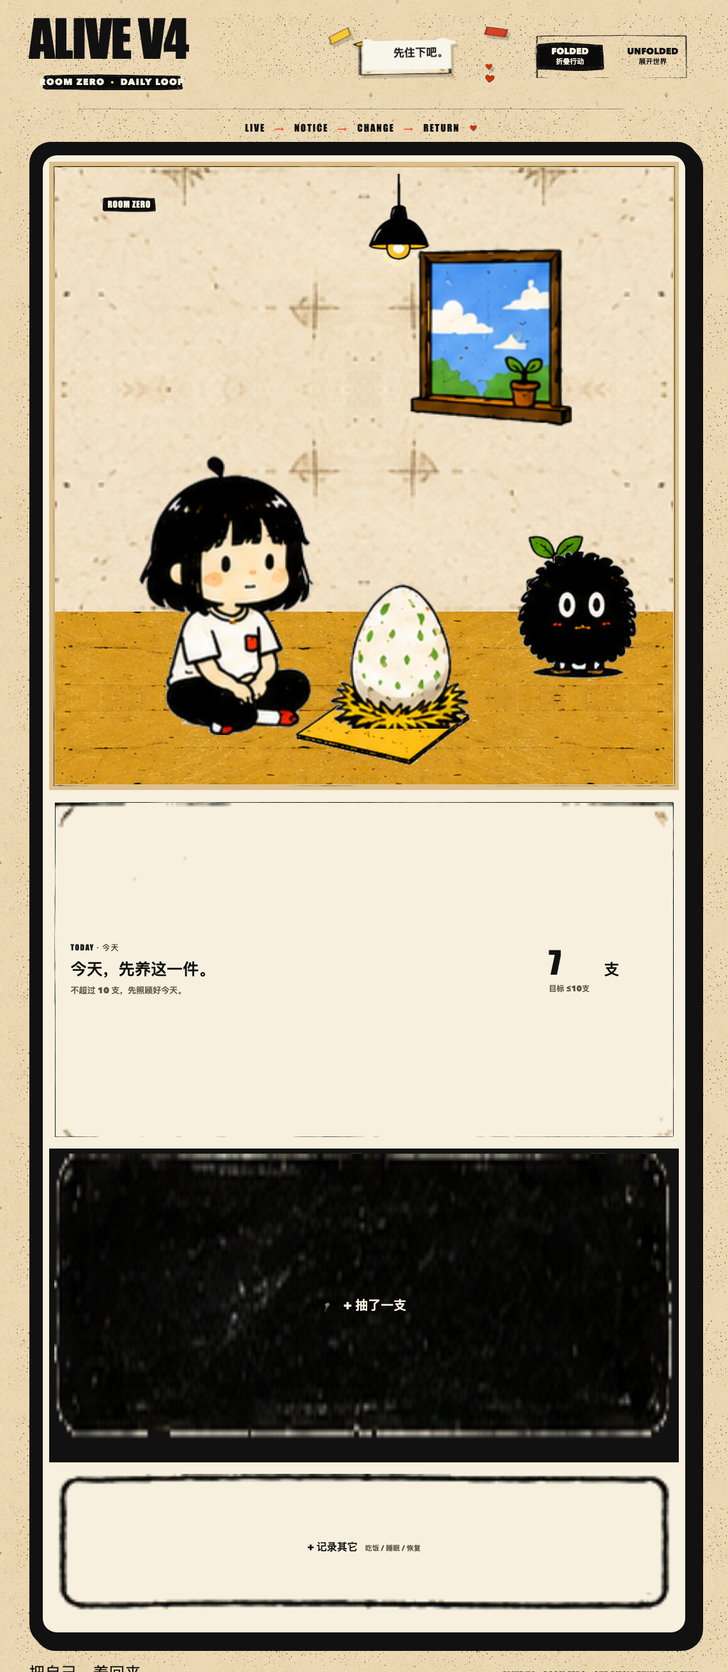
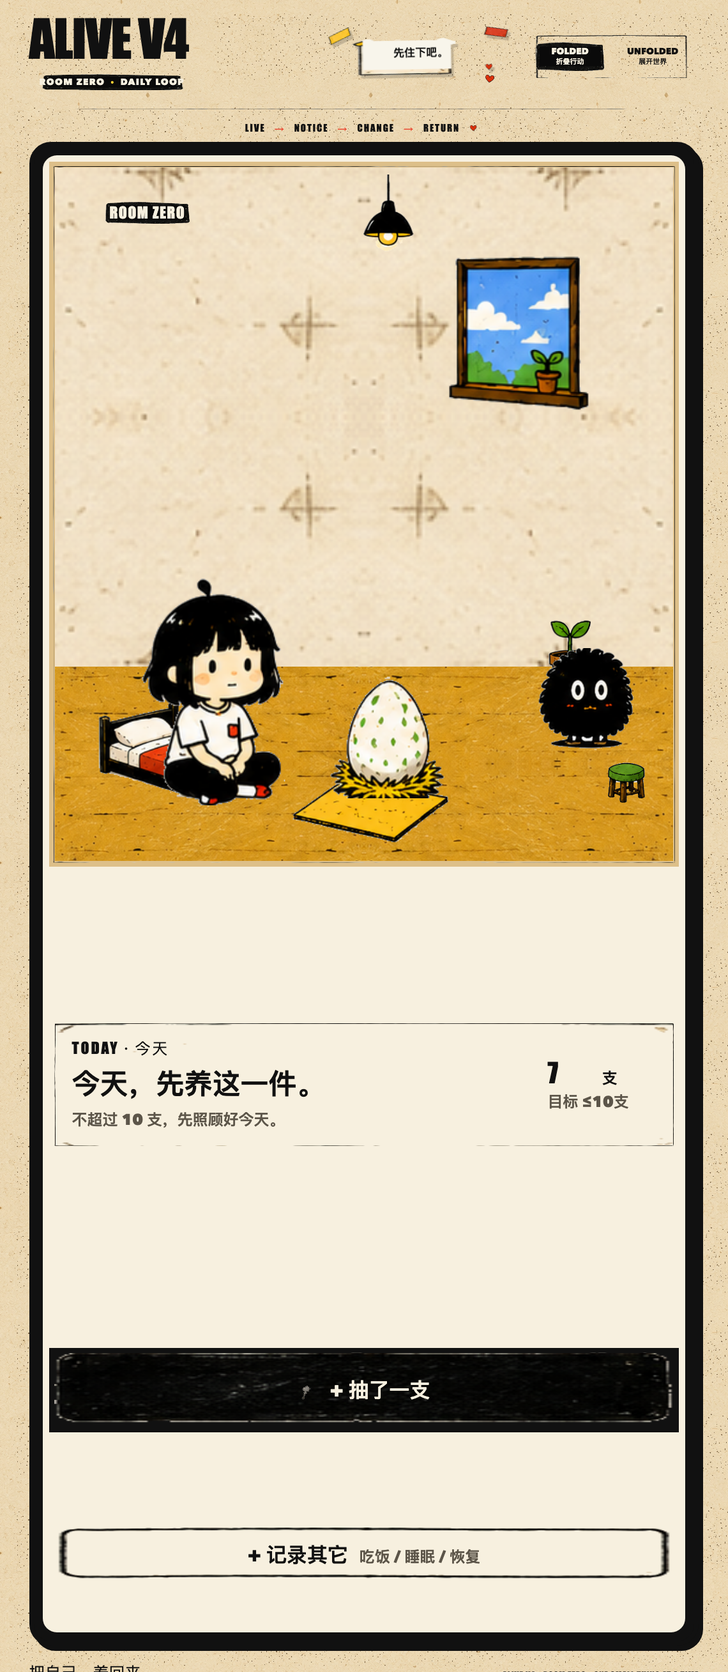
fix: tune mobile scale and world density

diff --git a/src/styles/app.css b/src/styles/app.css
@@ -37,57 +37,55 @@ img { max-width: 100%; }
 .unfolded-display { display: grid; grid-template-columns: minmax(0, 2fr) minmax(0, 1fr); grid-template-rows: minmax(0, 78fr) minmax(220px, 22fr); gap: 18px; min-width: 0; min-height: 0; height: 100%; padding: 18px; overflow: hidden; background: var(--paper); }
 .unfolded-room { grid-column: 1; grid-row: 1; min-width: 0; min-height: 0; }
 .unfolded-room .room-scene { width: 100%; height: 100%; aspect-ratio: auto; }
-.unfolded-display > .quick-records { grid-column: 1 / -1; grid-row: 2; display: flex; flex-direction: column; min-height: 0; height: 100%; margin-top: 0; padding: 22px 24px; }
-.unfolded-display > .quick-records .quick-grid { flex: 1; min-height: 0; align-items: stretch; gap: 14px; }
-.unfolded-display > .quick-records .record-card { min-height: 0; padding: 24px; font-size: clamp(24px, 1.45vw, 38px); align-content: center; }
-.unfolded-display > .quick-records .record-plus { margin-right: 14px; font-size: clamp(42px, 2.3vw, 58px); }
+.unfolded-display > .quick-records { grid-column: 1 / -1; grid-row: 2; display: flex; flex-direction: column; justify-content: center; min-height: 0; height: 100%; margin-top: 0; padding: 22px 24px; }
+.unfolded-display > .quick-records .quick-grid { flex: 0 0 clamp(118px, 5.2vh, 130px); min-height: 118px; align-items: stretch; gap: 14px; }
+.unfolded-display > .quick-records .record-card { min-height: 118px; padding: 18px 22px; font-size: var(--type-button); align-content: center; }
+.unfolded-display > .quick-records .record-plus { margin-right: 14px; font-size: var(--type-primary); }
 .unfolded-display > .quick-records .record-label { font-size: inherit; }
-.unfolded-display > .quick-records .record-value { font-size: clamp(20px, 1.05vw, 28px); }
-.unfolded-display > .quick-records .record-card img { right: 6px; bottom: 5px; width: 100px; max-height: 120px; }
-.unfolded-display > .quick-records .other-record { min-height: 112px; margin-top: 14px; padding: 18px 22px; font-size: clamp(22px, 1.2vw, 32px); }
-.unfolded-display > .quick-records .other-record span { font-size: clamp(32px, 1.8vw, 46px); }
-.unfolded-display > .quick-records .other-record small { font-size: clamp(16px, .85vw, 23px); }
+.unfolded-display > .quick-records .record-value { font-size: var(--type-secondary); }
+.unfolded-display > .quick-records .record-card img { right: 6px; bottom: 5px; width: 92px; max-height: 112px; }
 .room-scene { position: relative; overflow: hidden; aspect-ratio: 1.78; border: 9px solid transparent; border-image: url('../../public/assets/material/frame-panel.png') 28 fill / 9px / 0 stretch; background: #ddbf89; }
 .room-texture { position: absolute; width: 100%; pointer-events: none; }
 .wall-texture { inset: 0 0 25%; height: 75%; object-fit: cover; }
 .floor-texture { inset: 75% 0 0; height: 25%; object-fit: cover; }
-.room-label { position: absolute; z-index: 10; top: 5%; left: 4%; padding: 10px 15px; color: var(--paper); border: 0; background-color: transparent; background-image: url('../../public/assets/material/frame-label-black.png'); background-size: 100% 100%; font-family: var(--font-display); font-size: clamp(13px, 1.2vw, 21px); letter-spacing: .06em; }
+.room-label { position: absolute; z-index: 10; top: 5%; left: 4%; padding: 12px 18px; color: var(--paper); border: 0; background-color: transparent; background-image: url('../../public/assets/material/frame-label-black.png'); background-size: 100% 100%; font-family: var(--font-display); font-size: var(--type-secondary); letter-spacing: .06em; }
 .room-asset { position: absolute; z-index: 2; height: auto; object-fit: contain; }
 .lamp-asset { top: -1%; left: 45%; width: 13%; }
-.window-asset { top: 13%; right: 19%; width: 19%; }
-.bed-asset { bottom: 9%; left: 4%; width: 29%; }
+.window-asset { top: 13%; right: 18%; width: 21%; }
+.bed-asset { bottom: 9%; left: 4%; width: 30%; }
 .rug-asset { bottom: 1%; left: 43%; width: 25%; }
-.table-asset { right: 3%; bottom: 9%; width: 24%; }
+.table-asset { right: 3%; bottom: 9%; width: 25%; }
 .stool-asset { right: 2%; bottom: 6%; width: 11%; z-index: 4; }
 .cup-asset { right: 11%; bottom: 26%; width: 6%; z-index: 4; }
 .plant-asset { right: 12%; bottom: 24%; width: 9%; z-index: 4; }
-.egg-asset { bottom: 8%; left: 52%; width: 17%; z-index: 5; }
-.resident-asset { bottom: 8%; left: 34%; width: 18%; z-index: 6; }
-.smoke-asset { right: 23%; bottom: 11%; width: 12%; z-index: 6; }
+.egg-asset { bottom: 8%; left: 52%; width: 15%; z-index: 5; }
+.resident-asset { bottom: 8%; left: 33%; width: 20%; z-index: 6; }
+.smoke-asset { right: 23%; bottom: 11%; width: 10%; z-index: 6; }
 .room-note { position: absolute; z-index: 9; top: 17%; left: 5%; width: 20%; min-height: 15%; padding: 12px; }
-.room-note p { font-size: clamp(10px, 1vw, 15px); }
+.room-note p { font-size: var(--type-secondary); }
 .room-note .note-heart { display: none; }
 
 .focus-panel { display: flex; justify-content: space-between; gap: 18px; align-items: center; min-height: 112px; margin-top: 10px; padding: 18px 24px; border: 10px solid transparent; border-image: url('../../public/assets/material/frame-panel.png') 24 fill / 10px / 0 stretch; background-color: var(--paper); }
 .mini-kicker { display: block; margin-bottom: 7px; font-family: var(--font-display); font-size: 12px; letter-spacing: .12em; }
-.focus-copy h2 { margin: 0; font-size: clamp(21px, 2.2vw, 34px); }
-.focus-copy p { margin: 6px 0 0; color: var(--muted); font-size: 13px; font-weight: 750; }
+.focus-copy h2 { margin: 0; font-size: var(--type-card-title); }
+.focus-copy p { margin: 8px 0 0; color: var(--muted); font-size: var(--type-secondary); font-weight: 750; }
 .focus-meter { flex: 0 0 150px; }
-.focus-meter strong { font-family: var(--font-display); font-size: 48px; }
-.focus-meter span { font-size: 19px; font-weight: 900; }
+.focus-meter strong { font-family: var(--font-display); font-size: var(--type-primary); }
+.focus-meter span { font-size: var(--type-secondary); font-weight: 900; }
 .meter-track { height: 11px; margin-top: 4px; border: 2px solid var(--ink); background: var(--paper); }
 .meter-track i { display: block; height: 100%; background: var(--red); }
 
 .quick-records { margin-top: 10px; padding: 13px 15px; border: 10px solid transparent; border-image: url('../../public/assets/material/frame-panel.png') 24 fill / 10px / 0 stretch; background-color: var(--paper); }
 .section-heading { display: flex; justify-content: space-between; gap: 14px; align-items: baseline; margin-bottom: 12px; }
-.section-heading h2, .status-card h2, .mood-card h2 { margin: 0; font-size: clamp(18px, 1.6vw, 26px); }
-.section-heading span, .status-card .section-heading span { color: var(--muted); font-size: 12px; font-weight: 800; }
+.section-heading h2, .status-card h2, .mood-card h2 { margin: 0; font-size: var(--type-card-title); }
+.quick-records .section-heading h2 { font-size: var(--type-section-title); }
+.section-heading span, .status-card .section-heading span { color: var(--muted); font-size: var(--type-secondary); font-weight: 800; }
 .quick-grid { display: grid; grid-template-columns: repeat(4, minmax(0, 1fr)); gap: 8px; min-width: 0; }
 .record-card { position: relative; display: grid; grid-template-columns: auto 1fr; grid-template-rows: auto auto; align-items: center; min-height: 78px; padding: 10px; overflow: hidden; border: 8px solid transparent; border-image: url('../../public/assets/material/frame-button-secondary.png') 20 fill / 8px / 0 stretch; background-color: transparent; text-align: left; }
 .record-card:hover, .record-card:focus-visible { background-color: var(--yellow); }
-.record-plus { grid-row: 1 / 3; margin-right: 9px; font-family: var(--font-display); font-size: 31px; }
+.record-plus { grid-row: 1 / 3; margin-right: 9px; font-family: var(--font-display); font-size: var(--type-primary); }
 .record-label { font-weight: 950; }
-.record-value { color: var(--muted); font-size: 12px; font-weight: 800; }
+.record-value { color: var(--muted); font-size: var(--type-secondary); font-weight: 800; }
 .record-card img { position: absolute; right: -8px; bottom: -12px; width: 55px; max-height: 70px; object-fit: contain; opacity: .78; }
 .accent-red { border-top: 6px solid var(--red); } .accent-orange { border-top: 6px solid var(--orange); } .accent-yellow { border-top: 6px solid var(--yellow); } .accent-blue { border-top: 6px solid var(--blue); } .accent-green { border-top: 6px solid var(--green); }
 .other-record { width: 100%; margin-top: 8px; padding: 10px 12px; border: 8px solid transparent; border-image: url('../../public/assets/material/frame-button-secondary.png') 20 fill / 8px / 0 stretch; background-color: transparent; font-weight: 900; text-align: left; }
@@ -97,34 +95,35 @@ img { max-width: 100%; }
 .status-card, .mood-card, .seed-card { min-height: 0; height: 100%; padding: 24px 28px; border: 10px solid transparent; border-image: url('../../public/assets/material/frame-panel.png') 24 fill / 10px / 0 stretch; background-color: var(--paper); }
 .status-card { display: flex; flex-direction: column; }
 .status-row { display: flex; justify-content: space-between; gap: 9px; padding: 21px 0 18px; background-image: url('../../public/assets/material/divider-handdrawn.png'); background-position: center top; background-size: 100% 8px; background-repeat: no-repeat; font-size: clamp(16px, 1vw, 25px); }
-.status-card .status-row { flex: 1; align-items: center; padding: 18px 0; font-size: clamp(24px, 1.35vw, 36px); }
-.status-row span { display: flex; align-items: center; gap: 8px; font-weight: 800; }
-.status-row strong { font-weight: 950; }
+.status-card .status-row { flex: 1; align-items: center; padding: 12px 0; font-size: var(--type-body); }
+.status-row span { display: flex; align-items: center; gap: 12px; font-weight: 800; }
+.status-row strong { font-weight: 950; font-size: var(--type-primary); }
+.status-icon { width: 38px; height: 38px; object-fit: contain; }
 .status-mark { width: 12px; height: 12px; display: inline-block; border: 1.5px solid var(--ink); background: var(--ink); }
 .status-mark.red { background: var(--red); } .status-mark.orange { background: var(--orange); } .status-mark.yellow { background: var(--yellow); } .status-mark.purple { background: var(--purple); } .status-mark.blue { background: var(--blue); }
 .mood-card { display: flex; flex-direction: column; }
-.mood-card h2 { margin-bottom: 22px; font-size: clamp(28px, 1.7vw, 42px); }
+.mood-card h2 { margin-bottom: 14px; font-size: var(--type-card-title); }
 .moods { display: grid; grid-template-columns: repeat(3, 1fr); gap: 9px; }
 .mood-card .moods { flex: 1; align-items: stretch; gap: 14px; }
-.mood { min-height: 120px; border: 8px solid transparent; border-image: url('../../public/assets/material/frame-button-secondary.png') 20 fill / 8px / 0 stretch; background-color: transparent; font-size: clamp(24px, 1.35vw, 36px); font-weight: 900; }
+.mood { min-height: 118px; border: 8px solid transparent; border-image: url('../../public/assets/material/frame-button-secondary.png') 20 fill / 8px / 0 stretch; background-color: transparent; font-size: var(--type-button); font-weight: 900; }
 .mood:hover { transform: translateY(-3px); box-shadow: 3px 3px 0 var(--ink); }
 .mood.good { background-color: #a4c870; } .mood.okay { background-color: #f5cc53; } .mood.bad { background-color: #ee806b; }
 .seed-chip { display: flex; align-items: center; gap: 8px; margin-top: 15px; padding-top: 12px; background-image: url('../../public/assets/material/divider-handdrawn.png'); background-position: center top; background-size: 100% 8px; background-repeat: no-repeat; }
 .seed-chip img { width: 40px; height: 48px; object-fit: contain; }
-.seed-chip b { font-family: var(--font-display); font-size: 26px; } .seed-chip small { color: var(--muted); font-size: 10px; font-weight: 750; }
+.seed-chip b { font-family: var(--font-display); font-size: var(--type-primary); } .seed-chip small { color: var(--muted); font-size: var(--type-secondary); font-weight: 750; }
 
 .folded-display { display: none; }
 .bottom-nav { display: grid; grid-template-columns: repeat(4, 1fr); border-top: 0; background-color: var(--paper); background-image: url('../../public/assets/material/divider-handdrawn.png'); background-position: center top; background-size: 100% 12px; background-repeat: no-repeat; padding-top: 12px; }
 .bottom-nav { height: 100%; }
 [data-screen-mode="folded"] .bottom-nav { display: none; }
-.nav-item { display: flex; justify-content: center; align-items: center; gap: 8px; min-height: 68px; border: 0; border-right: 1.5px solid rgba(17,17,17,.3); background: transparent; font-size: 14px; font-weight: 950; }
+.nav-item { display: flex; justify-content: center; align-items: center; gap: 12px; min-height: 120px; border: 0; border-right: 1.5px solid rgba(17,17,17,.3); background: transparent; font-size: var(--type-nav); font-weight: 950; }
 .nav-item:last-child { border-right: 0; } .nav-item.is-active { background-color: var(--yellow); }
 .nav-icon { width: 14px; height: 14px; display: inline-block; border: 2px solid var(--ink); background: var(--paper); } .nav-icon.house { transform: rotate(45deg); } .nav-icon.discover { border-radius: 50%; } .nav-icon.story { border-radius: 2px 8px 2px 8px; } .nav-icon.me { border-radius: 50%; }
 .footer-caption { display: flex; justify-content: space-between; gap: 20px; align-items: baseline; padding-top: 24px; font-family: var(--font-display); } .footer-caption span { font-size: 25px; } .footer-caption small { letter-spacing: .07em; }
 
 [data-mode="folded"] .unfolded-display { display: none; }
-[data-mode="folded"] .folded-display { display: grid; grid-template-rows: minmax(0, 40fr) minmax(0, 22fr) minmax(0, 20fr) minmax(0, 10fr); gap: 10px; min-height: 0; height: 100%; padding: 10px; }
-[data-mode="folded"] .folded-scene { min-height: 0; }
+[data-mode="folded"] .folded-display { display: grid; grid-template-rows: minmax(0, 40fr) minmax(0, 24fr) minmax(0, 10fr) minmax(0, 8fr); gap: 10px; min-height: 0; height: 100%; padding: 10px; align-items: center; }
+[data-mode="folded"] .folded-scene { min-height: 0; height: 100%; }
 [data-mode="folded"] .folded-scene .room-scene { width: 100%; height: 100%; aspect-ratio: auto; max-height: none; }
 [data-mode="folded"] .folded-scene .room-label { top: 4%; left: 7%; }
 [data-mode="folded"] .folded-scene .room-note { display: none; }
@@ -132,26 +131,32 @@ img { max-width: 100%; }
 [data-mode="folded"] .folded-scene .floor-texture { inset: 72% 0 0; height: 28%; }
 [data-mode="folded"] .folded-scene .lamp-asset { top: 1%; left: 46%; width: 17%; }
 [data-mode="folded"] .folded-scene .window-asset { top: 12%; right: 12%; width: 36%; }
-[data-mode="folded"] .folded-scene .bed-asset, [data-mode="folded"] .folded-scene .table-asset, [data-mode="folded"] .folded-scene .stool-asset, [data-mode="folded"] .folded-scene .cup-asset { display: none; }
-[data-mode="folded"] .folded-scene .rug-asset { left: 35%; width: 37%; }
-[data-mode="folded"] .folded-scene .plant-asset { right: 10%; bottom: 24%; width: 19%; }
-[data-mode="folded"] .folded-scene .egg-asset { bottom: 9%; left: 39%; width: 33%; }
-[data-mode="folded"] .folded-scene .resident-asset { bottom: 8%; left: 11%; width: 37%; }
-[data-mode="folded"] .folded-scene .smoke-asset { bottom: 14%; right: 4%; width: 24%; }
+[data-mode="folded"] .folded-scene .table-asset, [data-mode="folded"] .folded-scene .cup-asset { display: none; }
+[data-mode="folded"] .folded-scene .bed-asset { display: block; left: 4%; bottom: 9%; width: 30%; }
+[data-mode="folded"] .folded-scene .window-asset { top: 12%; right: 10%; width: 31%; }
+[data-mode="folded"] .folded-scene .lamp-asset { top: 1%; left: 46%; width: 14%; }
+[data-mode="folded"] .folded-scene .stool-asset { right: 3%; bottom: 7%; width: 10%; }
+[data-mode="folded"] .folded-scene .rug-asset { left: 35%; width: 33%; }
+[data-mode="folded"] .folded-scene .plant-asset { right: 10%; bottom: 24%; width: 14%; }
+[data-mode="folded"] .folded-scene .egg-asset { bottom: 9%; left: 40%; width: 27%; }
+[data-mode="folded"] .folded-scene .resident-asset { bottom: 8%; left: 12%; width: 30%; }
+[data-mode="folded"] .folded-scene .smoke-asset { bottom: 14%; right: 5%; width: 19%; }
 [data-mode="folded"] .focus-panel { min-height: 0; margin-top: 0; }
-[data-mode="folded"] .folded-focus { padding: 20px 24px; }
-[data-mode="folded"] .folded-focus .focus-copy p { font-size: clamp(13px, 1vw, 18px); }
+[data-mode="folded"] .folded-focus { padding: 22px 26px; }
+[data-mode="folded"] .folded-focus .focus-copy h2 { font-size: var(--type-section-title); }
+[data-mode="folded"] .folded-focus .focus-copy p { font-size: var(--type-secondary); }
+[data-mode="folded"] .folded-focus .mini-kicker { font-size: var(--type-secondary); }
 [data-mode="folded"] .folded-focus .focus-meter { display: grid; grid-template-columns: auto auto; align-items: baseline; column-gap: 8px; row-gap: 3px; flex-basis: 170px; }
-[data-mode="folded"] .folded-focus .focus-meter strong { font-size: clamp(48px, 4vw, 72px); }
-[data-mode="folded"] .folded-focus .focus-meter span { font-size: clamp(24px, 1.8vw, 34px); }
-[data-mode="folded"] .folded-focus .focus-meter small { grid-column: 1 / -1; color: var(--muted); font-size: clamp(12px, .85vw, 17px); font-weight: 800; }
-[data-mode="folded"] .focus-copy p { font-size: 12px; }
-[data-mode="folded"] .focus-meter { display: block; flex-basis: 150px; }
+[data-mode="folded"] .folded-focus .focus-meter strong { font-size: var(--type-primary); }
+[data-mode="folded"] .folded-focus .focus-meter span { font-size: var(--type-secondary); }
+[data-mode="folded"] .folded-focus .focus-meter small { grid-column: 1 / -1; color: var(--muted); font-size: var(--type-secondary); font-weight: 800; }
+[data-mode="folded"] .focus-copy p { font-size: var(--type-secondary); }
+[data-mode="folded"] .focus-meter { display: block; flex-basis: 200px; }
 .primary-action, .secondary-action { width: 100%; margin-top: 0; border: 0; font-weight: 950; }
-.primary-action { display: flex; justify-content: center; align-items: center; gap: 9px; min-height: 62px; padding: 10px 16px; color: var(--paper); background-color: var(--ink); border: 8px solid transparent; border-image: url('../../public/assets/material/frame-cta-black.png') 20 fill / 8px / 0 stretch; font-size: 20px; }
-.primary-action img { width: 25px; height: 25px; object-fit: contain; }
+.primary-action { display: flex; justify-content: center; align-items: center; gap: 12px; height: 132px; min-height: 128px; padding: 16px 22px; color: var(--paper); background-color: var(--ink); border: 8px solid transparent; border-image: url('../../public/assets/material/frame-cta-black.png') 20 fill / 8px / 0 stretch; font-size: var(--type-button); align-self: center; }
+.primary-action img { width: 38px; height: 38px; object-fit: contain; }
 .primary-action:hover { color: var(--ink); background-color: var(--yellow); }
-.secondary-action { min-height: 48px; padding: 10px 13px; background-color: transparent; border: 8px solid transparent; border-image: url('../../public/assets/material/frame-button-secondary.png') 20 fill / 8px / 0 stretch; } .secondary-action span { margin-left: 8px; color: var(--muted); font-size: 11px; }
+.secondary-action { height: 102px; min-height: 96px; padding: 14px 18px; background-color: transparent; border: 8px solid transparent; border-image: url('../../public/assets/material/frame-button-secondary.png') 20 fill / 8px / 0 stretch; font-size: var(--type-button); align-self: center; } .secondary-action span { margin-left: 10px; color: var(--muted); font-size: var(--type-secondary); }
 
 @media (max-width: 860px) {
   .brand-header { grid-template-columns: 1fr 1fr; gap: 18px; }
@@ -166,8 +171,8 @@ img { max-width: 100%; }
   .handheld-shell { padding: 7px; border-width: 5px; border-radius: 22px; box-shadow: 4px 5px 0 var(--ink); }
   .screen-bezel { border-radius: 14px; } .screen-label { padding: 9px 12px; font-size: 11px; }
   .folded-display { padding: 7px; } [data-mode="folded"] .folded-scene .room-scene { width: 100%; max-height: none; }
-  .focus-panel { padding: 15px; min-height: 98px; } .focus-copy h2 { font-size: 21px; }
-  .bottom-nav .nav-item { min-height: 56px; font-size: 11px; gap: 5px; } .nav-icon { width: 10px; height: 10px; }
+  .focus-panel { padding: 22px; min-height: 220px; } .focus-copy h2 { font-size: var(--type-section-title); }
+  .bottom-nav .nav-item { min-height: 120px; font-size: var(--type-nav); gap: 10px; } .nav-icon { width: 16px; height: 16px; }
   .footer-caption { display: block; text-align: center; } .footer-caption span { display: block; margin-bottom: 7px; font-size: 22px; }
   .loop-strip { gap: 7px; font-size: 11px; }
 }

diff --git a/src/layout/shell.js b/src/layout/shell.js
@@ -33,13 +33,13 @@ function roomScene({ smokeEncountered }) {
 
 function statusRows(records) {
   const rows = [
-    ['抽烟', `${records.smoke} / 10 支`, 'red'],
-    ['喝酒', records.drink ? `${records.drink} 次` : 'Dry', 'orange'],
-    ['运动', `${records.move} min`, 'yellow'],
-    ['睡眠', '23:48 上床', 'purple'],
-    ['喝水', `${records.water} / 8 杯`, 'blue'],
+    ['抽烟', `${records.smoke} / 10 支`, 'red', scene.assets.smokeIcon],
+    ['喝酒', records.drink ? `${records.drink} 次` : 'Dry', 'orange', scene.assets.liver],
+    ['运动', `${records.move} min`, 'yellow', scene.assets.muscle],
+    ['睡眠', '23:48 上床', 'purple', null],
+    ['喝水', `${records.water} / 8 杯`, 'blue', scene.assets.water],
   ];
-  return rows.map(([label, value, color]) => `<div class="status-row"><span><i class="status-mark ${color}"></i>${label}</span><strong>${value}</strong></div>`).join('');
+  return rows.map(([label, value, color, icon]) => `<div class="status-row"><span>${icon ? `<img class="status-icon" src="${icon}" alt="">` : `<i class="status-mark ${color}"></i>`}${label}</span><strong>${value}</strong></div>`).join('');
 }
 
 function actionCard(item, records) {

diff --git a/index.html b/index.html
@@ -5,11 +5,11 @@
     <meta name="viewport" content="width=device-width, initial-scale=1.0, viewport-fit=cover" />
     <meta name="theme-color" content="#f4ead5" />
     <title>ALIVE V4 · Room Zero</title>
-    <link rel="stylesheet" href="./src/styles/tokens.css?v=20260830-contract1" />
-    <link rel="stylesheet" href="./src/styles/app.css?v=20260830-contract1" />
+    <link rel="stylesheet" href="./src/styles/tokens.css?v=20260830-phase3e" />
+    <link rel="stylesheet" href="./src/styles/app.css?v=20260830-phase3e" />
   </head>
   <body>
     <main id="app" aria-live="polite"></main>
-    <script type="module" src="./src/app.js?v=20260830-contract1"></script>
+    <script type="module" src="./src/app.js?v=20260830-phase3e"></script>
   </body>
 </html>

diff --git a/src/styles/tokens.css b/src/styles/tokens.css
@@ -14,4 +14,11 @@
   --soft-shadow: 4px 5px 0 rgba(17, 17, 17, .18);
   --font-body: "Avenir Next", "PingFang SC", "Hiragino Sans GB", sans-serif;
   --font-display: Impact, "Arial Black", "Avenir Next Condensed", sans-serif;
+  --type-section-title: clamp(44px, 3.5vw, 52px);
+  --type-card-title: clamp(34px, 3vw, 40px);
+  --type-primary: clamp(42px, 3.6vw, 52px);
+  --type-body: clamp(28px, 2.6vw, 32px);
+  --type-secondary: clamp(22px, 2.1vw, 26px);
+  --type-button: clamp(30px, 2.8vw, 36px);
+  --type-nav: clamp(24px, 2.2vw, 28px);
 }

diff --git a/src/data/scene.js b/src/data/scene.js
@@ -13,6 +13,9 @@ export const scene = {
     cup: './public/assets/room/cup.png',
     resident: './public/assets/characters/zhanzhan-morning.png',
     smoke: './public/assets/characters/smoke-beast-encounter.png',
+    liver: './public/assets/characters/liver-normal.png',
+    muscle: './public/assets/characters/muscle-normal.png',
+    water: './public/assets/characters/water-normal.png',
     egg: './public/assets/world/egg-still.png',
     plant: './public/assets/world/plant-stage-b.png',
     heart: './public/assets/ui/heart.png',

diff --git a/design-qa.md b/design-qa.md
@@ -5,7 +5,7 @@ visual review: ready for user sign-off
 
 Reference: `/Users/Jenny/Desktop/alive排版.png` plus the supplied `alive 01–05.png` and `kit1–9.png` visual kits.
 
-Captured states (contract1):
+Captured states (phase3):
 
 - 390×844 folded cover viewport: `outputs/qa/folded-390x844.png`
 - 1140×2616 folded cover viewport: `outputs/qa/folded-1140x2616.png`
@@ -14,14 +14,16 @@ Captured states (contract1):
 Checks completed:
 
 - Handheld black bezel remains the device shell; UI panels and actions now use the supplied hand-drawn panel/button/CTA/label frames instead of straight black rectangles.
+- Mobile type scale is explicit: section titles 44–52px, card titles 34–40px, primary values 42–52px, body 28–32px, secondary text 22–26px, buttons 30–36px, and navigation 24–28px.
+- Mobile interaction heights are explicit: quick records 118–130px depending on available viewport height, mood controls 118px, folded primary CTA 128–132px, folded secondary action 96–102px, and navigation cells 120px minimum.
 - Paper texture and grain overlay are applied to the page shell, while the supplied wall/floor textures remain inside the Room Zero scene.
 - Unfolded mode keeps the Room Zero world in the 2fr main column, status/mood in the 1fr secondary column, then places a full-width horizontal quick-record band below the upper world/status band, followed by full-width navigation.
 - The unfolded quick-record band contains four equal actions: `+ 抽烟`, `+ 喝酒`, `+ 运动`, and `••• 其它`.
 - The dimension labels are documentation/QA metadata only; the product screen itself contains no extra `MAIN DISPLAY` bar.
 - Unfolded mode uses the corrected physical ratio (2248 wide × 2480 high) with large, vertically balanced record and mood controls instead of oversized empty cards.
 - Unfolded mode does not reuse the folded focus card; the room keeps its complete near-square composition without clipping the residents or world objects.
-- Folded mode keeps the action order: room → today's focus → primary action → other records; it intentionally has no unfolded HUD, full quick-record row, or four-item navigation.
-- Real Room Zero furniture, characters, world objects, UI paper/tape, frame assets, and textures are loaded from the copied asset library.
+- Folded mode keeps the action order: room → today's focus → primary action → other records; it intentionally has no unfolded HUD, full quick-record row, or four-item navigation. The room keeps a quieter bed/window/lamp/plant/support-object composition and scales residents from the ZhanZhan reference size.
+- Real Room Zero furniture, characters, world objects, UI paper/tape, frame assets, and textures are loaded from the copied asset library. Resident/object percentages are kept coherent across ZhanZhan, egg, and supporting residents.
 - Entry points and asset references are repository-relative so a GitHub Pages project URL can load the app on mobile.
 - Screen aspect-ratio constraints are explicit in CSS and covered by automated tests: unfolded width/height `2248 / 2480`, folded width/height `1140 / 2616`; folded internal rows keep the room short enough for the full daily loop.
 - Mode switching and the five first-stage record actions are interactive; state remains intentionally in memory until the persistence phase.
